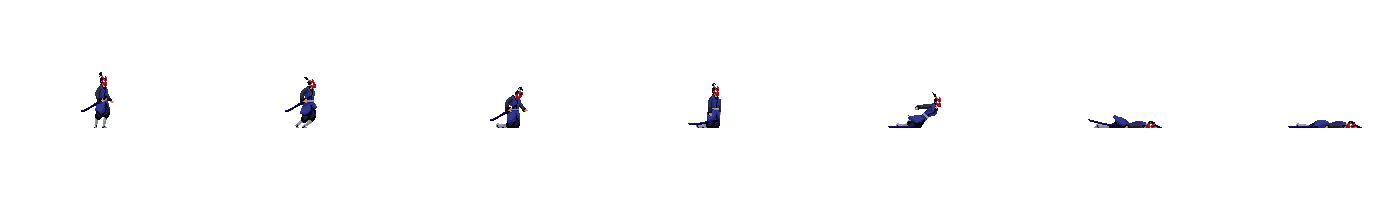
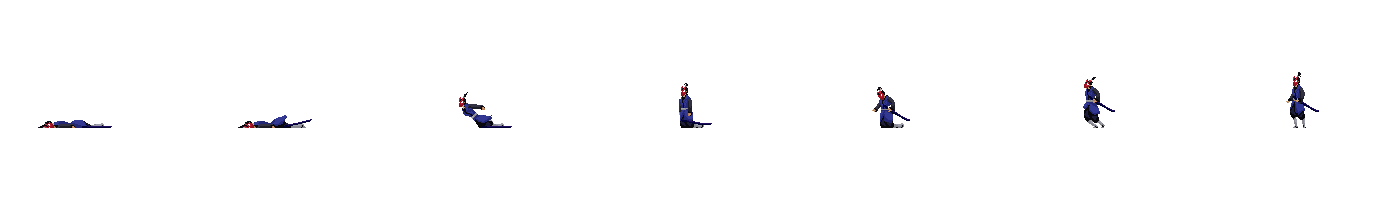
feat: completed mvp

diff --git a/src/sprites/blood-moon.js b/src/sprites/blood-moon.js
@@ -1,21 +1,56 @@
 class BloodMoon {
   constructor(game, x, y) {
     Object.assign(this, { game, x, y });
-    const assetsMap = {
+    this.assetsMap = {
       "idle": ASSET_MANAGER.getAsset("./src/assets/blood-moon/idle.png"),
+      "run": ASSET_MANAGER.getAsset("./src/assets/blood-moon/run.png"),
+      "attack": ASSET_MANAGER.getAsset("./src/assets/blood-moon/attack.png"),
+      "death": ASSET_MANAGER.getAsset("./src/assets/blood-moon/death.png"),
     }
-    this.animation = this.instantiateAnimator(assetsMap["idle"]);
+    this.animations = [
+      this.instantiateAnimator("idle", 4, 0.2),
+      this.instantiateAnimator("run", 4, 0.1),
+      this.instantiateAnimator("attack", 4, 0.2, 110, 96, 0),
+      this.instantiateAnimator("death", 7, 0.27, 80, 120, 40),
+    ];
+    this.velocity = this.game.isWin ? 140 : 180;
+    this.triggerDistance = 140;
+    this.state = 0;
+    this.isIdle = false;
+    this.idleCounter = 0;
   };
 
-  instantiateAnimator(spriteSheet) {
-    return new Animator(spriteSheet, 80, 0, 40, 200, 4, 0.2, 160, false, true);
+  instantiateAnimator(mode, numOfFrames, frameRate, width = 40, framePadding = 160, xStart = 80) {
+    return new Animator(this.assetsMap[mode], xStart, 0, width, 200, numOfFrames, frameRate, framePadding, true, mode !== "death" && mode !== "attack");
   }
 
   update() {
-
+    if (this.idle) {
+      this.state = 0;
+      return;
+    }
+    if (this.state === 1) {
+      if (this.x > PARAMS.BLOCKWIDTH * this.triggerDistance) {
+        this.x -= this.game.clockTick * this.velocity * PARAMS.SCALE;
+      } else {
+        if (this.game.isWin) {
+          this.isIdle = true;
+          this.idleCounter += this.game.clockTick;
+          if (this.idleCounter > 0.2) {
+            this.idleCounter = 0.0;
+            this.x -= PARAMS.BLOCKWIDTH * 20;
+            this.state = 3;
+            this.idle = false;
+          }
+        } else {
+          this.x -= PARAMS.BLOCKWIDTH * 40;
+          this.state = 2;
+        }
+      }
+    }
   };
 
   draw(ctx) {
-    this.animation.drawFrame(this.game.clockTick, ctx, this.x - this.game.camera.x, this.y, PARAMS.SCALE)
+    this.animations[this.state].drawFrame(this.game.clockTick, ctx, this.x - this.game.camera.x, this.y, PARAMS.SCALE)
   }
 }

diff --git a/src/sprites/ksana.js b/src/sprites/ksana.js
@@ -1,21 +1,54 @@
 class Ksana {
   constructor(game, x, y) {
     Object.assign(this, { game, x, y });
-    const assetsMap = {
+    this.assetsMap = {
       "idle": ASSET_MANAGER.getAsset("./src/assets/ksana/idle.png"),
+      "run": ASSET_MANAGER.getAsset("./src/assets/ksana/run.png"),
+      "attack": ASSET_MANAGER.getAsset("./src/assets/ksana/attack.png"),
+      "death": ASSET_MANAGER.getAsset("./src/assets/ksana/death.png"),
     }
-    this.animation = this.instantiateAnimator(assetsMap["idle"]);
+    this.animations = [
+      this.instantiateAnimator("idle", 8, 0.1),
+      this.instantiateAnimator("run", 6, 0.1),
+      this.instantiateAnimator("attack", 8, 0.1, 110, 90),
+      this.instantiateAnimator("death", 6, 0.2),
+    ];
+    this.velocity = this.game.isWin ? 180 : 150;
+    this.triggerDistance = 120;
+    this.state = 0;
+    this.idle = false;
+    this.idleCounter = 0.0;
   };
 
-  instantiateAnimator(spriteSheet) {
-    return new Animator(spriteSheet, 80, 0, 40, 200, 8, 0.1, 160, false, true);
+  instantiateAnimator(mode, numOfFrames, frameRate, width = 40, framePadding = 160) {
+    return new Animator(this.assetsMap[mode], 80, 0, width, 200, numOfFrames, frameRate, framePadding, false, mode !== "death" && mode !== "attack");
   }
 
   update() {
-
+    if (this.idle) {
+      this.state = 0;
+      return;
+    }
+    if (this.state === 1) {
+      if (this.x < PARAMS.BLOCKWIDTH * this.triggerDistance) {
+        this.x += this.game.clockTick * this.velocity * PARAMS.SCALE;
+      } else {
+        if (!this.game.isWin) {
+          this.isIdle = true;
+          this.idleCounter += this.game.clockTick;
+          if (this.idleCounter > 0.2) {
+            this.idleCounter = 0.0;
+            this.state = 3;
+            this.idle = false;
+          }
+        } else {
+          this.state = 2;
+        }
+      }
+    }
   };
 
   draw(ctx) {
-    this.animation.drawFrame(this.game.clockTick, ctx, this.x - this.game.camera.x, this.y, PARAMS.SCALE)
+    this.animations[this.state].drawFrame(this.game.clockTick, ctx, this.x - this.game.camera.x, this.y, PARAMS.SCALE)
   }
 }

diff --git a/src/scene-manager.js b/src/scene-manager.js
@@ -7,6 +7,8 @@ class SceneManager {
         this.game.isDisplayingGoText = false;
         this.game.isDisplayingStatusText = false;
         this.game.responseTimer = 0;
+        this.game.isWin = false;
+        this.isCalledFirstTime = true;
         this.x = 0;
         this.loadAnimationExamples();
     };
@@ -30,6 +32,8 @@ class SceneManager {
     }
 
     resetRound() {
+        this.loadAnimationExamples();
+        this.isCalledFirstTime = true;
         this.game.isDisplayingReadyText = false;
         this.game.isDisplayingSetText = false;
         this.game.isDisplayingGoText = false;
@@ -46,8 +50,13 @@ class SceneManager {
             this.drawText(ctx, "Go!!", 130 * PARAMS.BLOCKWIDTH);
             this.game.responseTimer += this.game.clockTick;
         } else if (this.game.isDisplayingStatusText) {
-            console.log("!!", this.game.isDisplayingStatusText);
-            const status = (this.game.responseTimer > 0.3) ? "Too Slow!" : "Perfect!";
+            this.game.isWin = this.game.responseTimer <= 0.3;
+            const status = this.game.isWin ? "Perfect!" : "Too Slow!";
+            if (this.isCalledFirstTime) {
+                this.game.entities[0].state = 1;
+                this.game.entities[1].state = 1;
+                this.isCalledFirstTime = false;
+            }
             this.drawText(ctx, status, 110 * PARAMS.BLOCKWIDTH);
         }
     }

diff --git a/src/main.js b/src/main.js
@@ -1,7 +1,13 @@
 const ASSET_MANAGER = new AssetManager();
 
 ASSET_MANAGER.queueDownload("./src/assets/ksana/idle.png");
+ASSET_MANAGER.queueDownload("./src/assets/ksana/run.png");
+ASSET_MANAGER.queueDownload("./src/assets/ksana/attack.png");
+ASSET_MANAGER.queueDownload("./src/assets/ksana/death.png");
 ASSET_MANAGER.queueDownload("./src/assets/blood-moon/idle.png");
+ASSET_MANAGER.queueDownload("./src/assets/blood-moon/run.png");
+ASSET_MANAGER.queueDownload("./src/assets/blood-moon/attack.png");
+ASSET_MANAGER.queueDownload("./src/assets/blood-moon/death.png");
 
 ASSET_MANAGER.downloadAll(function () {
 	const gameEngine = new GameEngine();
